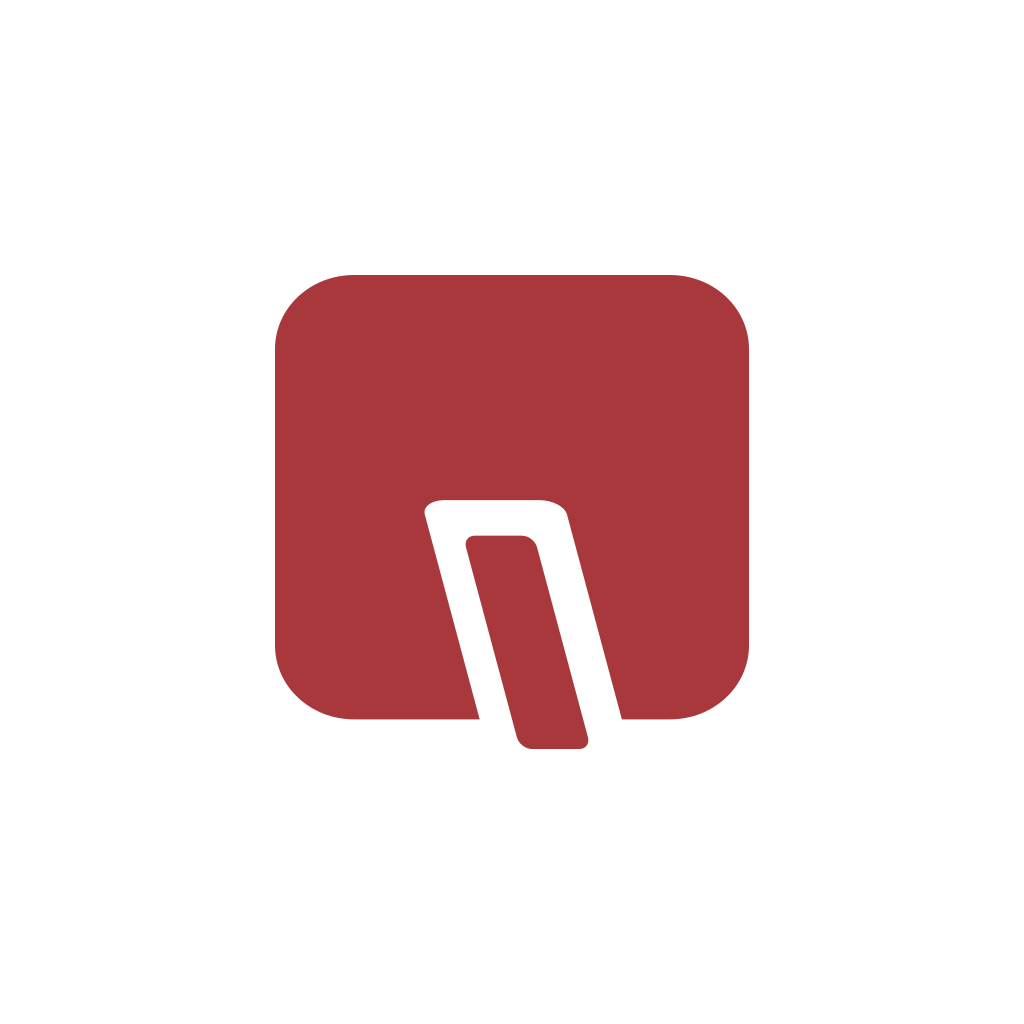
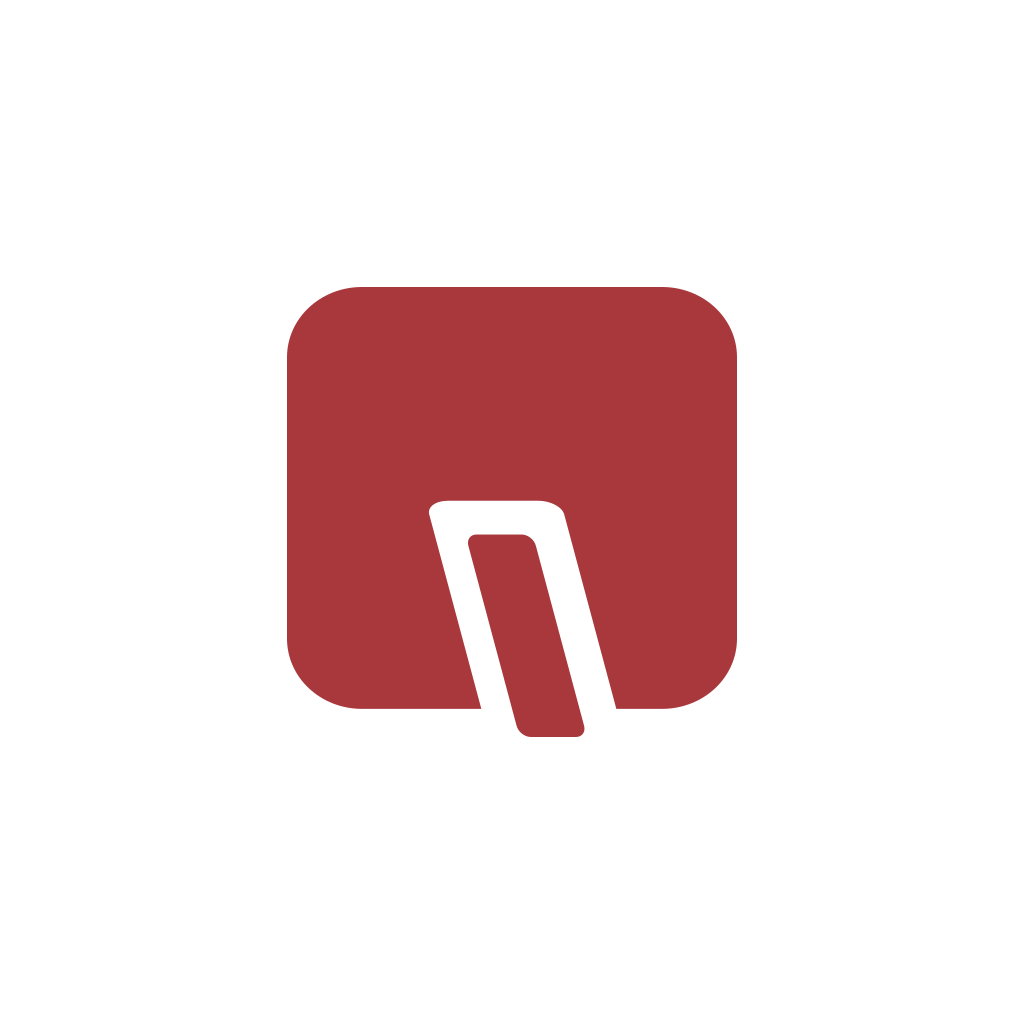
bug fixes and minor improvements

diff --git a/screens/about.js b/screens/about.js
@@ -19,10 +19,10 @@ export default function About(props){
 	const dir = ['fa'].includes(lang)?'rtl':'ltr';
 
 	const copyWeb = ()=>{
-		clipboard.setStringAsync('https://foreverspring.ir');
+		clipboard.setStringAsync('https://solacode.ir/');
 	};
 	const copyMail = ()=>{
-		clipboard.setStringAsync('foreverspring37@gmail.com');
+		clipboard.setStringAsync('solacode.ahw@gmail.com');
 	};
 	const copyWallet = ()=>{
 		clipboard.setStringAsync('bc1qqluh6n498fpef9wymaarqtkel9f4pln07wv0zc');
@@ -37,12 +37,12 @@ export default function About(props){
 				<View style={styles.wrap}>
 					<Text style={{...textStyle.body,...textColor[theme]}}>
 						<Text style={{...textColor.primary,...textStyle.title}}>Quick Planner</Text> is an android app by</Text>
-						<Image source={require('../assets/graphics/fs.png')} style={styles.fs}/>
+						<Image source={require('../assets/graphics/logo.png')} style={styles.logo}/>
 						<Text style={{...textStyle.body,...textColor[theme]}}>written with React Native.</Text>
 				</View>
 				<View style={styles.wrap}>
 					<View  style={styles.row}>
-						<Text style={{...textColorPrimary[theme],...textStyle.label}}> https://foreverspring.ir</Text>
+						<Text style={{...textColorPrimary[theme],...textStyle.label}}>solacode.ir</Text>
 						<TapButton icon='copy' action={copyWeb} />
 					</View>
 				</View>
@@ -51,7 +51,7 @@ export default function About(props){
 						To report any issues, please contact me via email:
 					</Text>
 					<View style={styles.row}>
-						<Text style={{...textStyle.label,...textColorPrimary[theme]}}>foreverspring37@gmail.com</Text>
+						<Text style={{...textStyle.label,...textColorPrimary[theme]}}>solacode.ahw@gmail.com</Text>
 						<TapButton icon='copy' action={copyMail} />
 					</View>
 				</View>
@@ -78,7 +78,7 @@ export default function About(props){
 }
 
 const styles = StyleSheet.create({
-	fs: {
+	logo: {
 		width: '50%',
 		marginHorizontal: '25%',
 		resizeMode: 'contain',

diff --git a/components/createModals.js b/components/createModals.js
@@ -13,7 +13,7 @@ import { settingsContext } from "../assets/utils/settings";
 import { getCategories, addTask, addCategory } from "../assets/utils/data";
 
 
-export function TaskModal({mode,onEnd,refresh,task}){
+export function TaskModal({mode,onEnd,refresh,task,cat_id}){
 	// mode > 0: create, 1: edit
 	const theme = useContext(settingsContext).DarkTheme ? 'dark' : 'light';
 	const lang = useContext(settingsContext).AppLanguage;
@@ -30,7 +30,7 @@ export function TaskModal({mode,onEnd,refresh,task}){
 	},[]);
 
 	const [lbl,setLbl] = useState(mode?task.name:'');
-	const [cat,setCat] = useState(mode?task.category.id:0);
+	const [cat,setCat] = useState(mode?task.category.id:cat_id);
 	const [note,setNote] = useState(mode?task.note:'');
 	const createTask = async() =>{
 		if(cat!==0 && lbl!==''){
@@ -67,7 +67,7 @@ export function TaskModal({mode,onEnd,refresh,task}){
 
 	return (
 		<View style={modalBasic[theme]}><View style={{...modalBasic.box,...shadow[theme],...styles[theme]}}>
-			<Text style={{...textStyle.label,...textColor[theme],textAlign: 'center'}}>{createModals.newTask.label[lang]}</Text>
+			<Text style={{...textStyle.label,...textColor[theme],textAlign: 'center'}}>{createModals.newTask.label[lang][mode]}</Text>
 			<TextInput 
 				selectionColor={themeColors.accent.original} 
 				placeholder={createModals.newTask.fill[lang]}
@@ -140,7 +140,7 @@ export function CategoryModal({mode,onEnd,refresh,category}){
 
 	return (
 		<View style={modalBasic[theme]}><View style={{...modalBasic.box,...shadow[theme],...styles[theme]}}>
-			<Text style={{...textStyle.label,...textColor[theme],textAlign: 'center'}}>{createModals.newCat.label[lang]}</Text>
+			<Text style={{...textStyle.label,...textColor[theme],textAlign: 'center'}}>{createModals.newCat.label[lang][mode]}</Text>
 			<TextInput 
 				selectionColor={themeColors.accent.original} 
 				placeholder={createModals.newCat.fill[lang]}

diff --git a/components/items.js b/components/items.js
@@ -178,9 +178,11 @@ export function CategoryItem({category,full,picked,refresh}){
 
 	const [modal,setModal] = useState(false);
 	const [warn,setWarn] = useState(false);
+	const [taskModal,setTaskModal] = useState(false);
 
 	if(full){
 		return (
+			<View>
 			<LinearGradient 
 				colors={[categoryColors[category.color]+'ff',categoryColors[category.color]+'00']} 
 				start={{x:0,y:0}} 
@@ -195,6 +197,7 @@ export function CategoryItem({category,full,picked,refresh}){
 				</Modal>
 				<TapButton icon={open?'expanded':'collapsed'} action={flipOpen} />
 				<Text style={{...styles.label,...textStyle.label,...textColor[theme]}}>{category.name}</Text>
+				<TapButton icon='add' action={()=>setTaskModal(true)} />
 				<TapButton icon='edit' action={()=>setModal(true)} />
 				<TapButton icon='delete' action={()=>setWarn(true)} />
 			</View>
@@ -204,6 +207,10 @@ export function CategoryItem({category,full,picked,refresh}){
 					</View>
 				:null}
 			</LinearGradient>
+			<Modal transparent={true} visible={taskModal} animationType="fade" onRequestClose={()=>setTaskModal(false)}>
+				<TaskModal onEnd={()=>setTaskModal(false)} refresh={refresh} mode={0} cat_id={category.id} />
+			</Modal>
+			</View>
 		);
 	} else if(!exclude){} else {
 		return (
@@ -250,6 +257,7 @@ const iconSource = {
 	view: require('../assets/icons/view.png'),
 	copy: require('../assets/icons/copy.png'),
 	remove: require('../assets/icons/close.png'),
+	add: require('../assets/icons/add.png')
 };
 
 const styles = StyleSheet.create({

diff --git a/assets/utils/data.js b/assets/utils/data.js
@@ -1,7 +1,7 @@
 import * as sqlite from 'expo-sqlite';
 import AsyncStorage from '@react-native-async-storage/async-storage';
 
-import { weekDays } from "./translations";
+import { weekDays,noDay } from "./translations";
 
 
 // JS OBJECT DEFINITION
@@ -16,11 +16,15 @@ class Day {
 		this.day=tmp.day;
 	}
 	display(mode,lang){
+		if(!this.date && !this.month && !this.year && !this.day){
+			return noDay[lang];
+		}
+		let day=this.day?'    -    '+weekDays[lang][this.day]:' ';
 		switch(mode){
 			case 1:
-				return String(this.date)+'    '+String(this.month)+'    '+String(this.year)+'    -    '+weekDays[lang][this.day];
+				return String(this.date)+'    '+String(this.month)+'    '+String(this.year)+day;
 			case 2:
-				return String(this.month)+'    '+String(this.date)+'    '+String(this.year)+'    -    '+weekDays[lang][this.day];
+				return String(this.month)+'    '+String(this.date)+'    '+String(this.year)+day;
 			default:
 				raise('Wrong mode passed to Day.display(mode,lang)');
 		}
@@ -371,7 +375,7 @@ export async function delPlanned(plan,task){
 export async function getArchived(active){
 	const db=sqlite.openDatabase('quickPlanner');
 	let [plans] = await db.execAsync([
-		{sql:'SELECT rowid,day FROM plan WHERE NOT rowid=?',args:[active]}
+		{sql:'SELECT rowid,day FROM plan WHERE NOT rowid=? ORDER BY rowid DESC',args:[active]}
 	],true);
 	plans=plans.rows;
 	db.closeAsync();

diff --git a/assets/utils/translations.js b/assets/utils/translations.js
@@ -142,6 +142,11 @@ export const weekDays={
 	fa: ['یکشنبه','دوشنبه','سهشنبه','چهارشنبه','پنجشنبه','جمعه','شنبه'],
 };
 
+export const noDay={
+	en: 'no date',
+	fa: 'بدون تاریخ',
+};
+
 export const planPage = {
 	fills:{
 		date:{
@@ -178,7 +183,11 @@ export const planPage = {
 	warning:{
 		en: 'You are about to archive this plan, after which you will not be able to make any edits. Do you want to proceed?',
 		fa: 'شما در حال آرشیو کردن این برنامه هستید و دیگر قادر نخواهید بود آن را ویرایش کنید. آیا میخواهید ادامه دهید؟',
-	}
+	},
+	weekDay:{
+		en: 'Week Day',
+		fa: 'روز هفته',
+	},
 };
 
 export const listPage = {

diff --git a/screens/plan.js b/screens/plan.js
@@ -270,7 +270,7 @@ function DropDown({day,options}){
 	return (
 		<View>
 			<Pressable ref={elemRef} onPress={openMenu} style={{...styles.dropDown,...textInput[theme]}}>
-				<Text style={{...textStyle.body,...textColor.gray}}>{value===''?'Week Day':weekDays[lang][value]}</Text>
+				<Text style={{...textStyle.body,...textColor.gray}}>{value===''?planPage.weekDay[lang]:weekDays[lang][value]}</Text>
 				<Image style={{...imageColor[theme],...icons.bigIcon}} source={require('../assets/icons/dropdown.png')} />
 			</Pressable>
 			<Modal transparent={true} visible={open} animationType="fade" onRequestClose={()=>setOpen(false)}>

diff --git a/components/topBars.js b/components/topBars.js
@@ -51,7 +51,7 @@ function TitleBar({page,navigation,onLayout}){
 
 	return(
 		<View style={styles.titleBar} onLayout={(obj)=>onLayout(1,obj['nativeEvent']['layout']['height'])}>
-			<Text style={{...textStyle.title,...textColor[theme]}}>{pageTitles[page][useContext(settingsContext).AppLanguage]}</Text>
+			<Text style={{...textStyle.title,...textColor.primary}}>{pageTitles[page][useContext(settingsContext).AppLanguage]}</Text>
 			{navOpen ? (
 				<View style={styles.navOpenView}>
 					<Pressable style={icons.smallIcon} onPress={toAbout}>

diff --git a/screens/list.js b/screens/list.js
@@ -63,7 +63,7 @@ export default function List(props){
 				<CategoryModal onEnd={()=>setCategoryModal(false)} refresh={refresh} mode={0} />
 			</Modal>
 			<Modal transparent={true} visible={taskModal} animationType="fade" onRequestClose={()=>setTaskModal(false)}>
-				<TaskModal onEnd={()=>setTaskModal(false)} refresh={refresh} mode={0} />
+				<TaskModal onEnd={()=>setTaskModal(false)} refresh={refresh} mode={0} cat_id={0} />
 			</Modal>
 		</View>
 	);

diff --git a/assets/utils/common.js b/assets/utils/common.js
@@ -19,7 +19,7 @@ export const icons = StyleSheet.create({
 		height: 30*PixelRatio.get(),
 	},
 	rtl: {
-		transform: [{scaleX: -1}],
+		transform: [{scaleX: 1}],
 	},
 	ltr: {
 		transform: [{scaleX: 1}],

diff --git a/README.md b/README.md
@@ -3,11 +3,11 @@ Quick Planner is a mobile application that helps you to plan your tasks quickly 
 
 It is written with React Native and Expo, made with love by
 
-![Forever Spring](/assets/graphics/fs.png)
+![SolaCode](/assets/graphics/logo.png)
 
 _It is currently only available for android!_
 
-_It has not been uploaded to Google Play Store, but you can download it from [HERE](https://github.com/forever-spring/quick-planner/blob/master/app/Quick%20Planner%20v1.1.0.apk)_
+<!-- _It has not been uploaded to Google Play Store, but you can download it from [HERE]()_ -->
 
 ## Features
 * Easy to use
@@ -34,4 +34,4 @@ _It has not been uploaded to Google Play Store, but you can download it from [HE
 * Do you wish to see a feature not listed?
 * Do you want to help with translating the app to another language?
 
-Please feel free to contact me via email at: foreverspring37 [at] gmail [dot] com
+Please feel free to contact me via email at: solacode.ahw [at] gmail [dot] com
